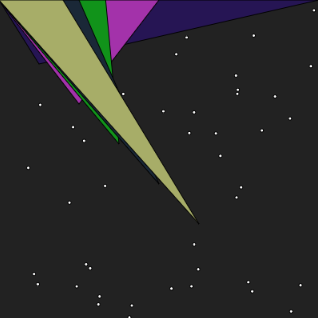
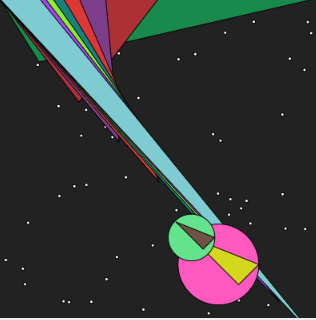
Added some globes.

diff --git a/art/live/sketch1.js b/art/live/sketch1.js
@@ -53,6 +53,24 @@ function globe(gx, gy, size) {
   circle(gx, gy, size);
   freshcolor();
   triangle(gx-size/3, gy-size/3, gx+size/2, gy, gx+size/4, gy+size/4);
+  if(size>100) {
+    var gnext = Math.floor(random(1, 3));
+    var gxnext = 0;
+    var gynext = 0;
+    if(gnext == 1) {
+      gxnext = gx-size/3;
+      gynext = gy-size/3;
+    }
+    if(gnext == 2) {
+      gxnext = gx+size/2;
+      gynext = gy;
+    }
+    if(gnext == 3) {
+      gxnext = gx+size/4;
+      gynext = gy+size/4;
+    }
+    globe(gxnext, gynext, size/3+(5*random(0,5)));
+  }
 
 }
 
@@ -72,5 +90,5 @@ function setup() {
   }
   var gx = random(1, 3);
   var gy = random(2, 3);
-  globe(gx * 100 + 50,gy*100+50, 100);
+  globe(gx * 100 + 50,gy*100+50, 101);
 }
